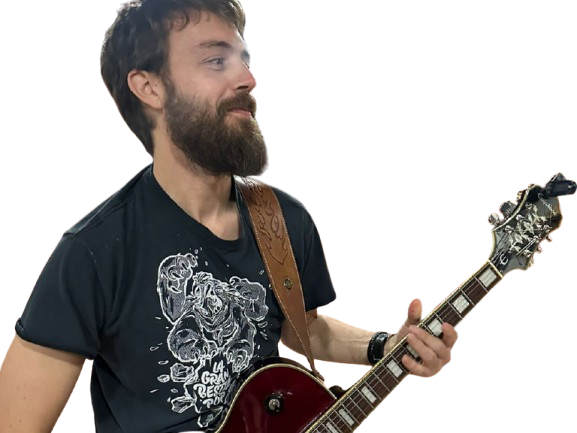
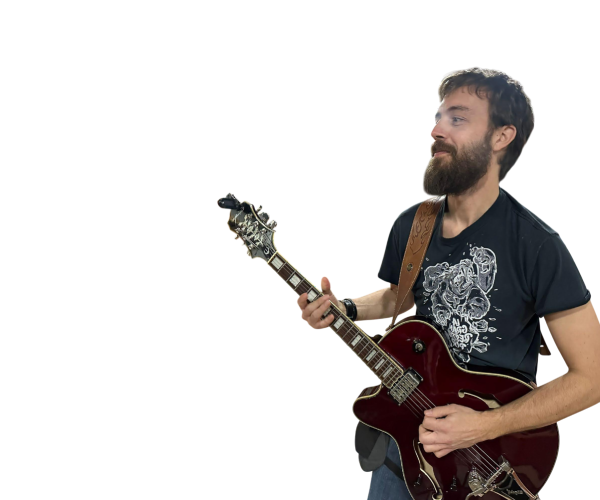
Update quisom pictures

diff --git a/src/styles/quisom.css b/src/styles/quisom.css
@@ -10,15 +10,17 @@
     inset: 0;
     pointer-events: none;
     background-image: var(--active-bg-img);
-    background-size: 50% auto;
+    background-size: contain;
     background-repeat: no-repeat;
-    background-position: center;
+    background-position: center bottom;
     opacity: var(--active-bg-opacity, 0);
     z-index: 0;
 }
 
 @media (min-width: 992px) {
     .quisom::before {
+        background-size: contain;
+        background-position: center;
         background-size: contain;
     }
 }
@@ -53,44 +55,32 @@
 .section--xavi {
     --bg-img: url("@img/quisom-xavi.png");
 }
-.section--adria::before {
-    /* gradient from base beige to green and then back to beige */
+/* .section--adria::before {
     background: linear-gradient(to bottom, #dfd7b6, #65f952, #dfd7b6);
 }
 .section--marina::before {
-    /* gradient from base beige to pink and then back to beige */
     background: linear-gradient(to bottom, #dfd7b6, #ff4d4d, #dfd7b6);
 }
 .section--pep::before {
-    /* gradient from base beige to blue and then back to beige */
     background: linear-gradient(to bottom, #dfd7b6, #4d4dff, #dfd7b6);
 }
 .section--bertran::before {
-    /* gradient from base beige to yellow and then back to beige */
     background: linear-gradient(to bottom, #dfd7b6, #ffff4d, #dfd7b6);
 }
 .section--xavi::before {
-    /* gradient from base beige to purple and then back to beige */
     background: linear-gradient(to bottom, #dfd7b6, #ff4dff, #dfd7b6);
-}
+} */
 
-@media (min-width: 992px) {
-    .quisom[data-active-section="adria"]::before {
-        left: 50%;
+@media (min-width: 992px) {    
+    .quisom[data-active-section="xavi"]::before,
+    .quisom[data-active-section="adria"]::before,
+    .quisom[data-active-section="marina"]::before {
+        background-position-x: right;
     }
-    /* Main Background positioning */
+
     .quisom[data-active-section="pep"]::before,
-    .quisom[data-active-section="xavi"]::before {
-        right: 10%;
-        left: 0;
-        background-position: center;
-    }
-
-    .quisom[data-active-section="marina"]::before,
     .quisom[data-active-section="bertran"]::before {
-        left: 10%;
-        right: 0;
-        background-position: center;
+        background-position-x: left;
     }
 
     /* Content Layout */
